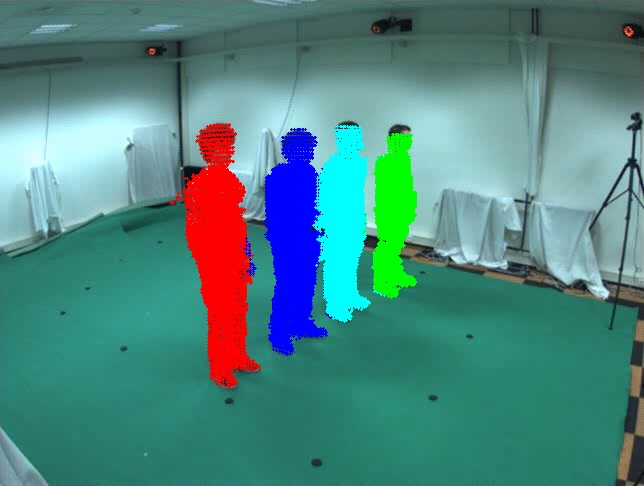
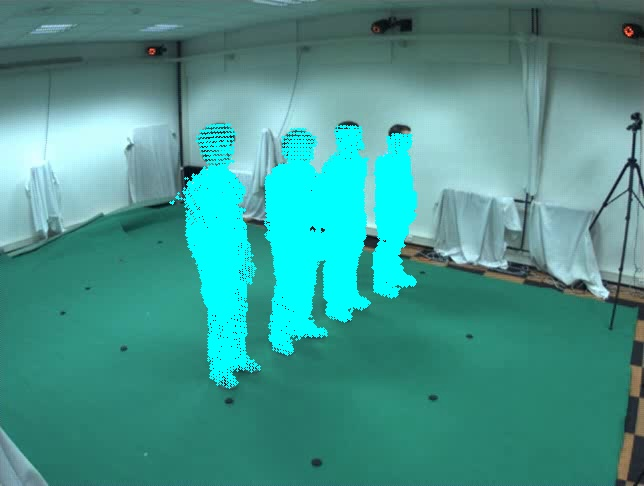
update
mask finished

Changed region(s): [[0.2484, 0.2469, 0.528, 0.8025], [0.559, 0.2778, 0.6522, 0.6173]]

diff --git a/Assignment_3/cluster.py b/Assignment_3/cluster.py
@@ -34,8 +34,9 @@ def set_voxel_colors(positions, colors):
 def cluster_project(projects, colors, index):
 
     cam_path = './data/cam' + str(index + 1) + '/video.avi'
-    pic_path1 = './data/cam' + str(index + 1) + '/project_img.jpg'
+    pic_path1 = './data/cam' + str(index + 1) + '/cluster_img.jpg'
     pic_path2 = './data/cam' + str(index + 1) + '/origin_img.jpg'
+    pic_path3 = './data/cam' + str(index + 1) + '/project_img.jpg'
     # take the 1st frame (frame1) of each cam:
     # get the video
     video_capture = cv.VideoCapture(cam_path)
@@ -46,15 +47,28 @@ def cluster_project(projects, colors, index):
     if not ret:
         print("Cannot get frame")
         exit()
+    video_capture.release()
+    video_capture = cv.VideoCapture(cam_path)
+    if not video_capture.isOpened():
+        print("Cannot open file")
+        exit()
+    ret, frame1_1 = video_capture.read()
+    if not ret:
+        print("Cannot get frame")
+        exit()
 
     # store the origin img
     cv.imwrite(pic_path2, frame1)
 
     for i in range(len(projects)):
         x, y = projects[i]
+        # as clustered img
         cv.circle(frame1, (x, y), 1, colors[i], -1)
+        # as projected img
+        cv.circle(frame1_1, (x, y), 1, (255, 255, 0), -1)
 
-    cv.imshow('Projected Image', frame1)
+    cv.imshow('Clustered Image', frame1)
     cv.imwrite(pic_path1, frame1)
+    cv.imwrite(pic_path3, frame1_1)
     cv.waitKey(0)
     cv.destroyAllWindows()

diff --git a/Assignment_3/color.py b/Assignment_3/color.py
@@ -3,6 +3,37 @@ import cv2 as cv
 import numpy as np
 from matplotlib import pyplot as plt
 
-def histogram(img_path):
+def histogram(img_path, project_list):
 
-    proj_img = cv.imread(img_path)
+    # get pic
+    origin_path = img_path + '/origin_img.jpg'
+
+    org_img = cv.imread(origin_path)
+
+    # get hsv and gray pics
+    org_gray = cv.cvtColor(org_img, cv.COLOR_BGR2GRAY)
+    org_hsv = cv.cvtColor(org_img, cv.COLOR_BGR2HSV)
+
+    # get mask using projects from set_voxel_positions
+    mask = np.zeros_like(org_gray)
+    for i in range(len(project_list)):
+        mask[project_list[i][1], project_list[i][0]] = 255
+
+    cv.imshow('Mask', cv.bitwise_and(org_img, org_img, mask=mask))
+    cv.waitKey(0)
+    cv.destroyAllWindows()
+
+    # egt histogram
+    color = ('b', 'g', 'r')
+    for i, col in enumerate(color):
+        hist = cv.calcHist([org_img], [i], mask, [256], [0, 256])
+
+        plt.plot(hist, color=col)
+        plt.xlim([0, 256])
+
+    plt.title("Histogram")
+    plt.show()
+
+
+
+# histogram('./data/cam4')

diff --git a/Assignment_3/executable.py b/Assignment_3/executable.py
@@ -12,6 +12,7 @@ from engine.config import config
 # used for assignments:
 from assignment import set_voxel_positions, set_multi_voxel_positions, generate_grid, get_cam_positions, get_cam_rotation_matrices
 from cluster import set_voxel_colors, cluster_project
+from color import histogram
 
 cube, hdrbuffer, blurbuffer, lastPosX, lastPosY = None, None, None, None, None
 firstTime = True
@@ -209,8 +210,11 @@ def key_callback(window, key, scancode, action, mods):
             cluster_project(projects[i], new_colors, i)
         curr_time += 1
 
-    # color model (GMM):
-    # if key == glfw.KEY_C and action == glfw.PRESS:
+    # color model (histogram):
+    if key == glfw.KEY_C and action == glfw.PRESS:
+        _, _, projects = set_voxel_positions(config['world_width'], config['world_height'], config['world_width'], curr_time)
+        img_path = './data/cam4'
+        histogram(img_path, projects[3])
 
     # movement simulation:
     if key == glfw.KEY_T and action == glfw.PRESS:
